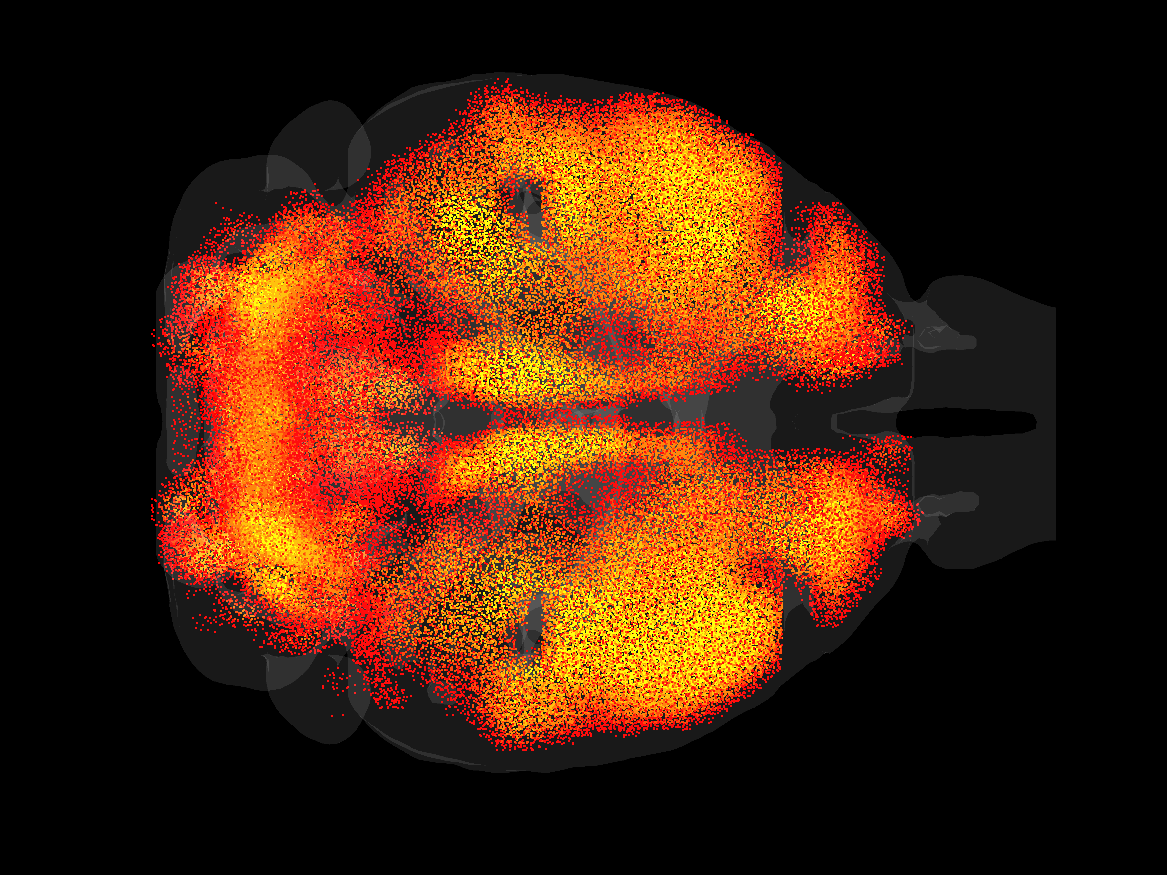
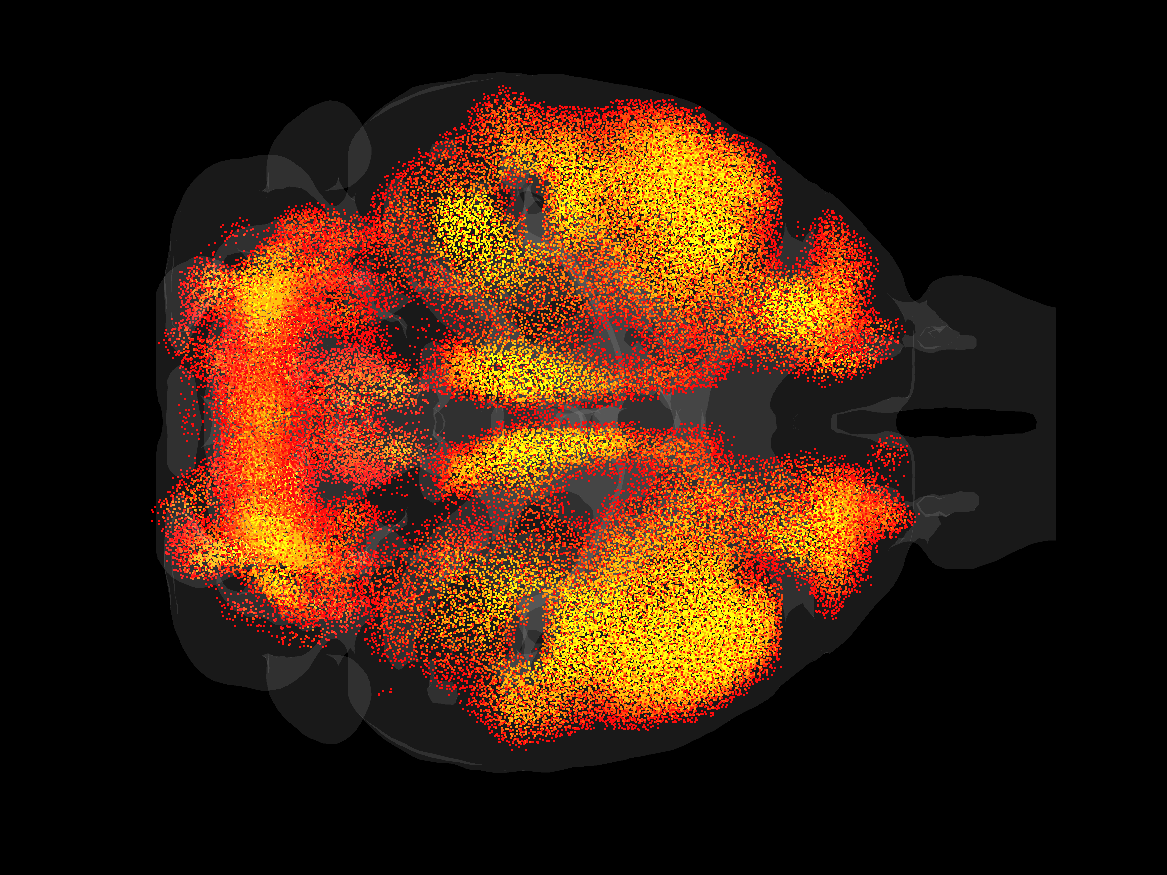
Further README edits, tweaked pervox Pv figure parameters

Changed region(s): [[0.1234, 0.0926, 0.8021, 0.864]]

diff --git a/brainframe_Help.m b/brainframe_Help.m
@@ -218,7 +218,7 @@ datinput = imresize3(datinput,[133 81 115]); %Co-registering data to CCF
 datinput(datinput<0) = 0; %Getting rid of negative artifacts
 
 input_struct = brainframe_inputs_mouse(matpath,'voxUreg',0,'data',...
-    datinput,'xfac',0.5,'nbin',5,'cmap',autumn(5)); %Note size(cmap,1)==nbin
+    datinput,'xfac',0.5,'voxthresh',0.75,'nbin',5,'cmap',autumn(5)); %Note size(cmap,1)==nbin
 brainframe(input_struct);
 view([-1 0 0]);
 

diff --git a/README.md b/README.md
@@ -54,6 +54,8 @@ This section describes the fields of input_struct, the structure object which `b
 
 - `nbin`: Number of bins per voxel data is divided into for colormap visualization. This field only applies to per-voxel data. Default is 1.
 
+- `voxthresh`: Threshold restricting the per-voxel data plotted based on the cumulative sum of density. Bounded between 0 and 1 and represents the fraction of total density to be plotted; default is 0.85.
+
 - `nreg`: Number of regions to go through in specified atlas. This must be a number equal to  the number of unique region IDs in brain_atlas. This field is only relevant for per-region data. Default is 86 for humans and 426 for mice. 
 
 - `region_groups`: This is a vector specifying the group each region is part of for colormap purposes. This vector must be the of length nreg. Default is an 86-element vector of 1s for humans and a 426 element vector of 1s for mice.
@@ -204,7 +206,7 @@ Below are some brief examples on the basics of the functionality of the Brainfra
 	> 
 	> view([-1 0 0]);
 
-	![mouse_selectregions](/ExampleImages/brainframe_Help_8.png)	
+	![mouse_selectregions](/ExampleImages/brainframe_Help_08.png)	
 
 - **Visualizing connectivity using the selected regions from above**:
 
@@ -264,7 +266,7 @@ Below are some brief examples on the basics of the functionality of the Brainfra
 	- Create your input_struct and visualize per-voxel data:
 
 	
-	> input_struct = brainframe_inputs_mouse(matpath,'voxUreg',0,'data',datinput,'nbin',5,'cmap',autumn(5));
+	> input_struct = brainframe_inputs_mouse(matpath,'voxUreg',0,'data',datinput,'xfac',0.5,'voxthresh',0.75,'nbin',5,'cmap',autumn(5));
 	> 
 	> brainframe(input_struct);
 	> 
